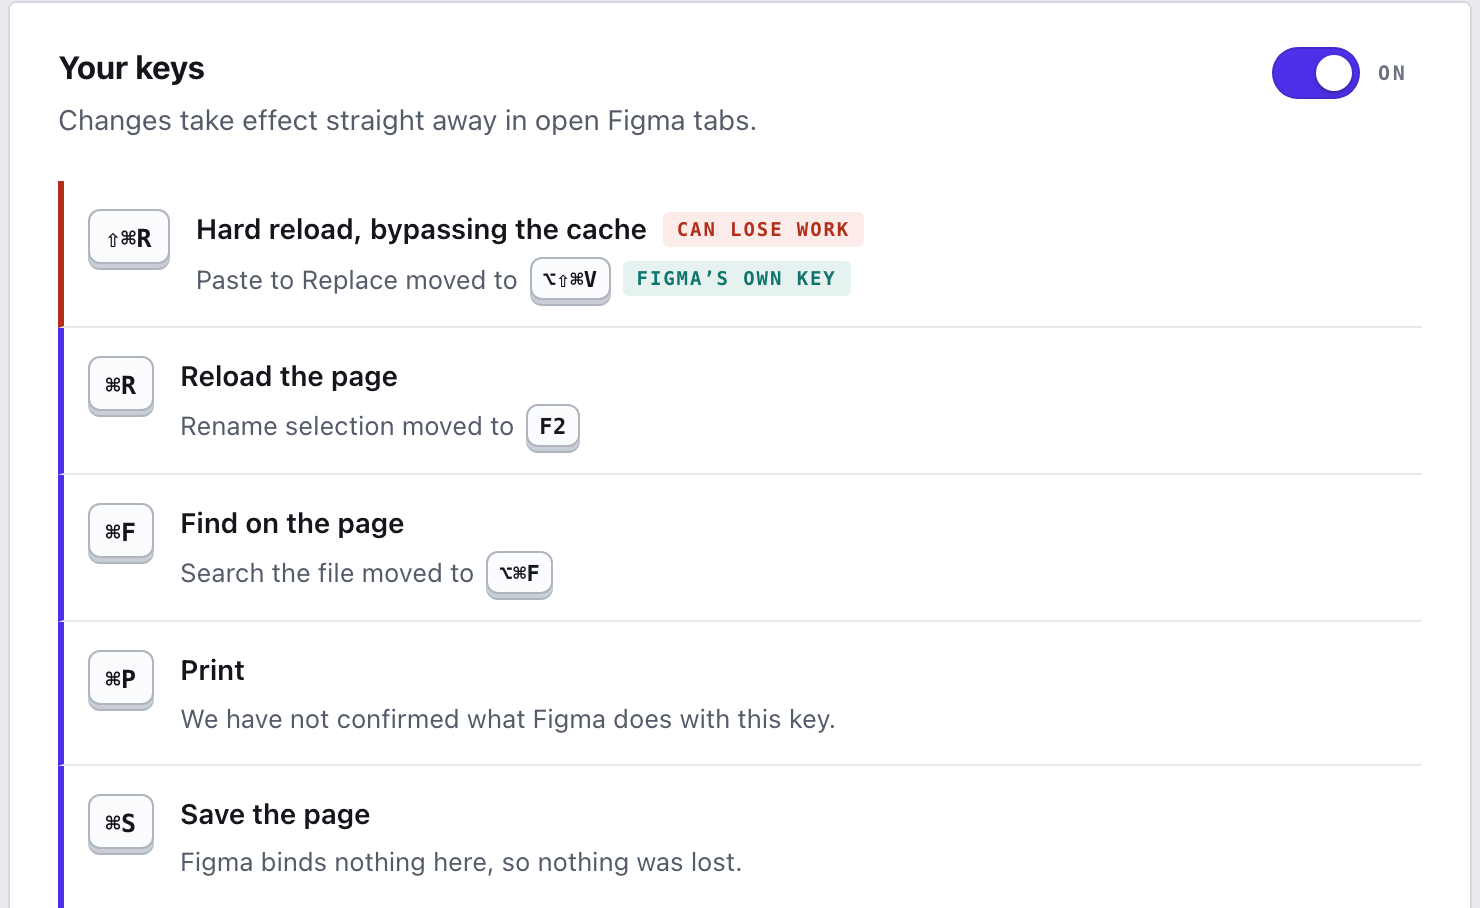
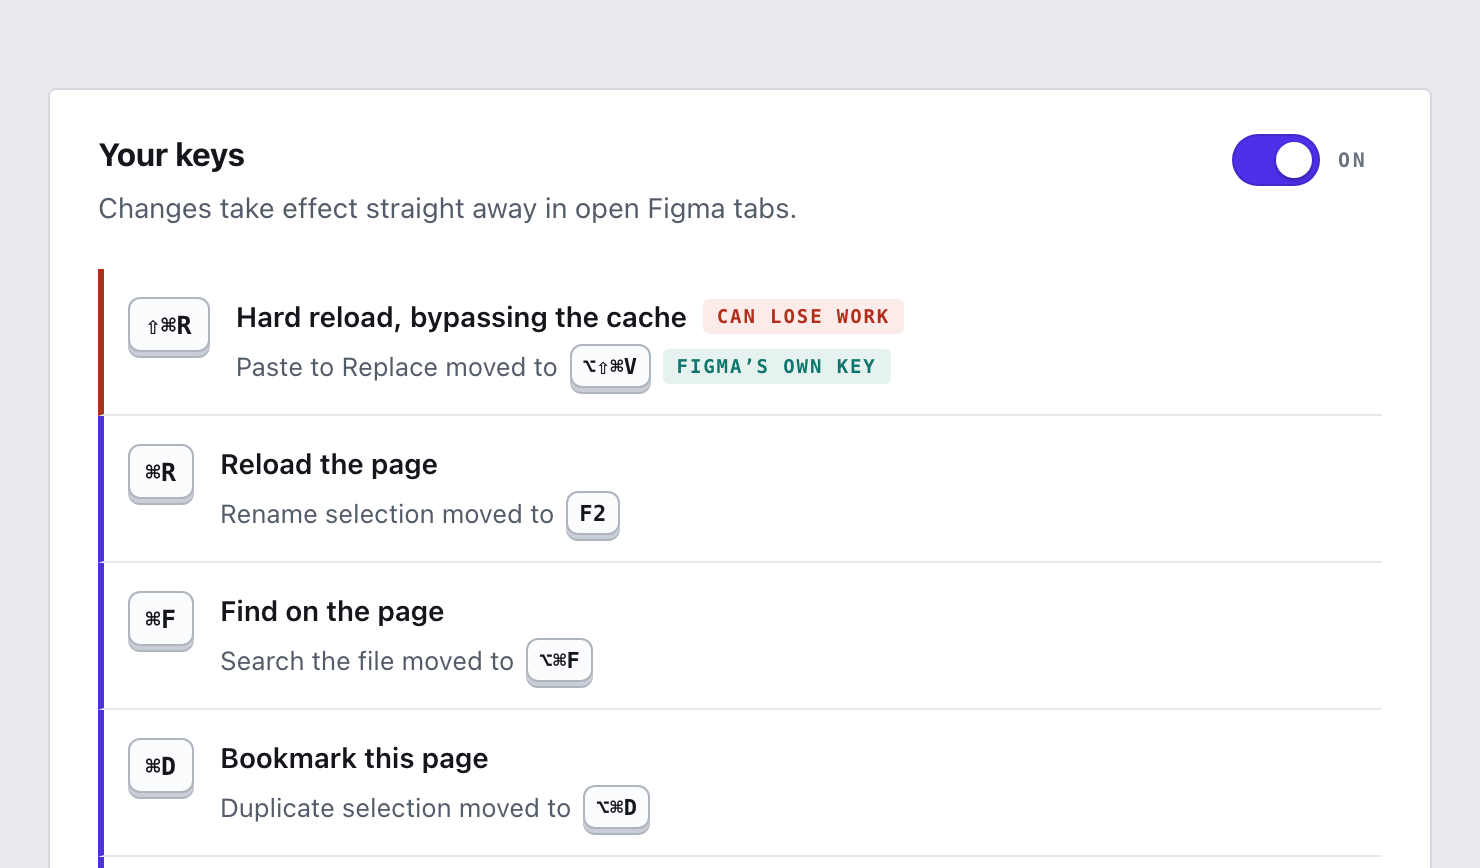
Give the browser back Cmd+D, and move duplicate to Cmd+Opt+D
Cmd+D was on the deliberate-keeps list, argued as the design-tool reading of
the chord winning over the browser's. That argument was wrong. Duplicate is
one application's convention; bookmarking is what every browser on both
platforms has done with Cmd+D for twenty years, and pressing it and getting a
duplicated slide is exactly the failure this extension exists to stop.

Duplicate does not lose its home, it moves one modifier over to Cmd+Opt+D,
the same shape as the find and layer-order rules. Holding Alt and dragging a
layer still duplicates it without a keyboard at all.

The pair is tested together: reclaiming the chord without the rehome landing
would leave duplicate with no keyboard route, which is a worse trade than the
one this rule makes. The boot harness now copies the KeyboardEventInit onto
the synthesised event, so a rehome pressing the wrong chord at Figma no
longer looks identical to one pressing the right one.

meta/capture-ui.sh is new: it retakes the options-page screenshot from the
real page, against a stub for chrome.storage, so the store artwork cannot
quietly keep showing a rule table that predates the keymap.

Claude-Session: https://claude.ai/code/session_01K8eBNahDeQ4Rrg1QdwpzVr

Changed region(s): [[0.0311, 0.0622, 0.6216, 1.0], [0.8392, 0.0311, 0.9635, 0.1244], [0.8081, 0.1555, 0.9324, 0.2177]]

diff --git a/src/keymap.js b/src/keymap.js
@@ -115,18 +115,25 @@ const MM_BROWSER_RESERVED = ['Mod+N', 'Mod+T', 'Mod+W', 'Mod+Q', 'Mod+Shift+N', 
  * Chords Figma is right to keep.
  *
  * The rule the whole keymap turns on is not "the browser always wins" -- it is
- * "the meaning you expect wins". Inside a canvas, Cmd+D means duplicate and
- * Cmd+G means group, in Figma exactly as in every design tool for thirty
- * years; the browser's bookmark and find-next are the surprising readings, and
- * both have another way in. Cmd+= / Cmd+- / Cmd+0 are the same story: zooming
- * the canvas is what you meant, zooming the chrome around it is not.
+ * "the meaning you expect wins". Inside a canvas Cmd+G means group, in Figma
+ * exactly as in every design tool for thirty years, and the browser's
+ * find-next is the surprising reading. Cmd+= / Cmd+- / Cmd+0 are the same
+ * story: zooming the canvas is what you meant, zooming the chrome around it is
+ * not.
+ *
+ * Cmd+D was on this list, argued the same way. It came off, and the argument
+ * is worth keeping because it shows where the line actually falls. Duplicate
+ * really is the design-tool reading. But bookmarking is not one application's
+ * convention competing with another's: every browser on both platforms has
+ * bound Cmd+D to it for twenty years, which is a stronger claim than any
+ * design tool can make, and pressing it and getting a duplicated slide is the
+ * exact failure this extension exists to stop. Duplicate did not lose its
+ * home, it moved one modifier over. See the `duplicate` rule below.
  *
  * These are listed rather than merely omitted so the options page can show
  * them as deliberate, and say why.
  */
 const MM_FIGMA_KEEPS = [
-  { chord: 'Mod+D', figma: 'Duplicate selection', browser: 'Bookmark this page',
-    why: 'Duplicate is the design-tool reading of Cmd+D. Bookmarking is still on the star in the address bar.' },
   { chord: 'Mod+G', figma: 'Group selection', browser: 'Find next',
     why: 'Group is the design-tool reading. Find next is Enter inside the find bar.' },
   { chord: 'Mod+Shift+G', figma: 'Ungroup selection', browser: 'Find previous',
@@ -182,6 +189,16 @@ const MM_RULES = [
     destructive: false,
     rehome: { chord: 'Mod+Alt+F', to: 'Mod+F', via: 'synthetic' },
     why: 'Figma’s own quick actions on Cmd+/ also search the file, and are untouched.',
+  },
+  {
+    id: 'duplicate',
+    chord: 'Mod+D',
+    browser: 'Bookmark this page',
+    figma: 'Duplicate selection',
+    confirmed: true,
+    destructive: false,
+    rehome: { chord: 'Mod+Alt+D', to: 'Mod+D', via: 'synthetic' },
+    why: 'Duplicate moves one modifier over, to Cmd+Opt+D. Holding Alt and dragging a layer still duplicates it too, and that one needs no keyboard at all.',
   },
   {
     id: 'print',

diff --git a/test/boot.test.js b/test/boot.test.js
@@ -67,7 +67,10 @@ function boot({ platform = 'MacIntel', stored = null, urlPath = '/design/abc/Dec
       observe() { sandbox.observing = true; }
       disconnect() { sandbox.observing = false; }
     },
-    KeyboardEvent: class { constructor(type) { this.type = type; } },
+    // The init is copied onto the event, not discarded: a rehome that pressed
+    // the wrong chord at Figma would otherwise look identical to one that
+    // pressed the right one.
+    KeyboardEvent: class { constructor(type, init) { this.type = type; Object.assign(this, init || {}); } },
     WheelEvent: class { constructor(type) { this.type = type; } },
     chrome: {
       runtime: { lastError: null, id: 'test-extension-id' },
@@ -180,9 +183,32 @@ test('reclaiming takes the event from the page WITHOUT preventing the default', 
 
 test('a chord with no rule is left completely untouched', () => {
   const { listeners } = boot();
-  const e = keydown('KeyD', { meta: true }); // duplicate: Figma keeps this
+  const e = keydown('KeyG', { meta: true }); // group: Figma keeps this
   listeners.window.keydown[0].fn(e);
-  assert.deepEqual(e.calls, [], 'Cmd+D must reach Figma unchanged');
+  assert.deepEqual(e.calls, [], 'Cmd+G must reach Figma unchanged');
+});
+
+test('Cmd+D bookmarks, and Cmd+Opt+D duplicates in its place', async () => {
+  // The pair has to be tested together. Reclaiming the chord without the
+  // rehome landing would leave duplicate with no keyboard route at all,
+  // which is a worse trade than the one this rule is making.
+  const { listeners, dispatched } = boot();
+  const onKeyDown = listeners.window.keydown[0].fn;
+
+  const bookmark = keydown('KeyD', { meta: true });
+  onKeyDown(bookmark);
+  assert.ok(bookmark.calls.includes('stopImmediatePropagation'), 'Figma would still duplicate');
+  assert.ok(!bookmark.calls.includes('preventDefault'), 'Chrome would not bookmark');
+
+  const duplicate = keydown('KeyD', { meta: true, alt: true });
+  onKeyDown(duplicate);
+  assert.ok(duplicate.calls.includes('stopImmediatePropagation'), 'the rehome did not fire');
+
+  // The synthetic press is deferred to the next task, so that Figma sees it
+  // after this keystroke has finished rather than nested inside it.
+  await new Promise((resolve) => setTimeout(resolve, 0));
+  assert.ok(dispatched.some((d) => d.key === 'd' && d.metaKey && !d.altKey),
+    'Cmd+Opt+D did not press Cmd+D at Figma');
 });
 
 test('the master switch off means no keystroke is touched', () => {

diff --git a/docs/index.html b/docs/index.html
@@ -186,6 +186,11 @@ li{margin:7px 0}
       <div class="gets">Find on the page</div>
       <div class="then">File search moved to <span class="cap">&#8997;&#8984;F</span></div>
     </div>
+    <div class="row to-browser" data-tip="Every browser on both platforms has bookmarked with ⌘D for twenty years, which outweighs one application's reading of it. Holding ⌥ and dragging a layer still duplicates it, with no keyboard at all.">
+      <span class="cap">&#8984;D</span>
+      <div class="gets">Bookmark this page</div>
+      <div class="then">Duplicate moved to <span class="cap">&#8997;&#8984;D</span></div>
+    </div>
     <div class="row to-browser" data-tip="Free of charge: Figma binds nothing to ⌘S. It saves continuously, and a named version is ⌘⌥S, which this does not touch.">
       <span class="cap">&#8984;S</span>
       <div class="gets">Save the page</div>
@@ -203,10 +208,10 @@ li{margin:7px 0}
       <div class="then">Send backward and bring forward moved to
         <span class="cap">&#8997;&#8984;[</span> <span class="cap">&#8997;&#8984;]</span></div>
     </div>
-    <div class="row to-figma" data-tip="On a canvas these read as duplicate, group, ungroup and zoom, and each browser action is still reachable another way: the star in the address bar, Enter inside the find bar, the browser's own zoom menu.">
-      <span class="cap">&#8984;D</span>
+    <div class="row to-figma" data-tip="On a canvas these read as group, ungroup and zoom, and each browser action is still reachable another way: Enter inside the find bar, the browser's own zoom menu.">
+      <span class="cap">&#8984;G</span>
       <div class="gets">Left with Figma, deliberately</div>
-      <div class="then">Also <span class="cap">&#8984;G</span> <span class="cap">&#8679;&#8984;G</span>
+      <div class="then">Also <span class="cap">&#8679;&#8984;G</span>
         <span class="cap">&#8984;=</span> <span class="cap">&#8984;-</span> <span class="cap">&#8984;0</span></div>
     </div>
   </div>

diff --git a/meta/ui-shim.js b/meta/ui-shim.js
@@ -1,0 +1,34 @@
+/**
+ * Enough of the extension APIs for the options page to render outside Chrome.
+ *
+ * The store screenshots show the real interface, not a mock-up of it, so they
+ * are captured from src/options.html itself. That page needs chrome.storage,
+ * which a file:// URL does not have. This supplies an empty profile, which is
+ * the state a new install is in and therefore the honest thing to photograph.
+ *
+ * It is loaded only by meta/capture-ui.sh, never packed into the extension.
+ */
+
+'use strict';
+
+const store = { sync: {}, local: {} };
+
+function area(name) {
+  return {
+    get(keys, cb) { if (typeof keys === 'function') cb(store[name]); else cb({}); },
+    set(v) { Object.assign(store[name], v); return Promise.resolve(); },
+    remove(_k, cb) { if (cb) cb(); },
+    clear(cb) { if (cb) cb(); },
+  };
+}
+
+globalThis.chrome = {
+  runtime: {
+    id: 'capture',
+    lastError: null,
+    getManifest: () => ({ version: '1.0.0' }),
+    getURL: (p) => p,
+    openOptionsPage() {},
+  },
+  storage: { sync: area('sync'), local: area('local'), onChanged: { addListener() {} } },
+};

diff --git a/README.md b/README.md
@@ -19,14 +19,16 @@ commands that lose one to a chord you already know.
 | `⇧⌘R` | Hard reload | Paste to Replace | `⌥⇧⌘V`, which Figma still ships |
 | `⌘R` | Reload | Rename selection | `F2` |
 | `⌘F` | Find on the page | Search the file | `⌥⌘F`, and `⌘/` still works |
+| `⌘D` | Bookmark this page | Duplicate selection | `⌥⌘D`, and ⌥-drag still duplicates |
 | `⌘S` | Save the page | nothing at all | nothing to move |
 | `⌘P` | Print | not confirmed | nothing to move |
 | `⌘[` `⌘]` | Back and forward | Send backward, bring forward | `⌥⌘[` `⌥⌘]` (off by default) |
 
-Left with Figma on purpose: `⌘D`, `⌘G`, `⇧⌘G`, `⌘=`, `⌘-`, `⌘0`. On a canvas
-those read as duplicate, group, ungroup and zoom, and that is the meaning you
-expect. The rule is not that the browser always wins. It is that the meaning
-you expect wins.
+Left with Figma on purpose: `⌘G`, `⇧⌘G`, `⌘=`, `⌘-`, `⌘0`. On a canvas those
+read as group, ungroup and zoom, and that is the meaning you expect. The rule
+is not that the browser always wins. It is that the meaning you expect wins.
+`⌘D` was on that list once, and lost the argument: every browser on both
+platforms bookmarks with it, which outweighs one application's reading.
 
 Never at risk: `⌘N`, `⌘T`, `⌘W`, `⌘Q`. Chrome resolves those above the page, so
 no website can take them.

diff --git a/meta/store-listing.md b/meta/store-listing.md
@@ -28,15 +28,17 @@ WHAT COMES BACK
   where Figma used to keep it and still answers to.
 - Cmd+R reloads. Rename moves to F2.
 - Cmd+F finds on the page. Figma's own file search stays on Cmd+/.
+- Cmd+D bookmarks the file instead of duplicating a slide. Duplicate moves one
+  modifier over, to Cmd+Opt+D.
 - Cmd+S saves the page. Figma binds nothing there at all.
 - Cmd+[ and Cmd+] go back and forward, if you want them to. Off by default,
   because layer order is the more useful reading of those keys.
 
 WHAT STAYS WITH FIGMA
 
-Cmd+D, Cmd+G, Cmd+Shift+G, Cmd+=, Cmd+- and Cmd+0. On a canvas those mean
-duplicate, group, ungroup and zoom, and that is the meaning you expect. The rule is not
-that the browser always wins. It is that the expected meaning wins.
+Cmd+G, Cmd+Shift+G, Cmd+=, Cmd+- and Cmd+0. On a canvas those mean group,
+ungroup and zoom, and that is the meaning you expect. The rule is not that the
+browser always wins. It is that the expected meaning wins.
 
 ALSO
 

diff --git a/meta/PUBLISHING.md b/meta/PUBLISHING.md
@@ -16,11 +16,16 @@ left needs a Google account, and cannot be done for you.
 ## Building the upload
 
 ```sh
-npm run check                       # referenced files, syntax, 80 tests
+npm run check                       # referenced files, syntax, 81 tests
 npm run package                     # muscle-memory.zip
 node scripts/check-package.mjs      # store limits, packed files, red flags
+sh meta/capture-ui.sh               # retake the options-page screenshot
 sh meta/make-store-art.sh           # listing artwork into screenshots/
 ```
+
+Run `capture-ui.sh` before the artwork whenever the keymap changed. Two of the
+three screenshots photograph the extension's own interface, and a listing that
+shows a rule table missing the rule people came for is worse than no listing.
 
 `check-package.mjs` refuses a package whose manifest exceeds a store field
 limit, references a file it did not pack, contains anything but the extension,
